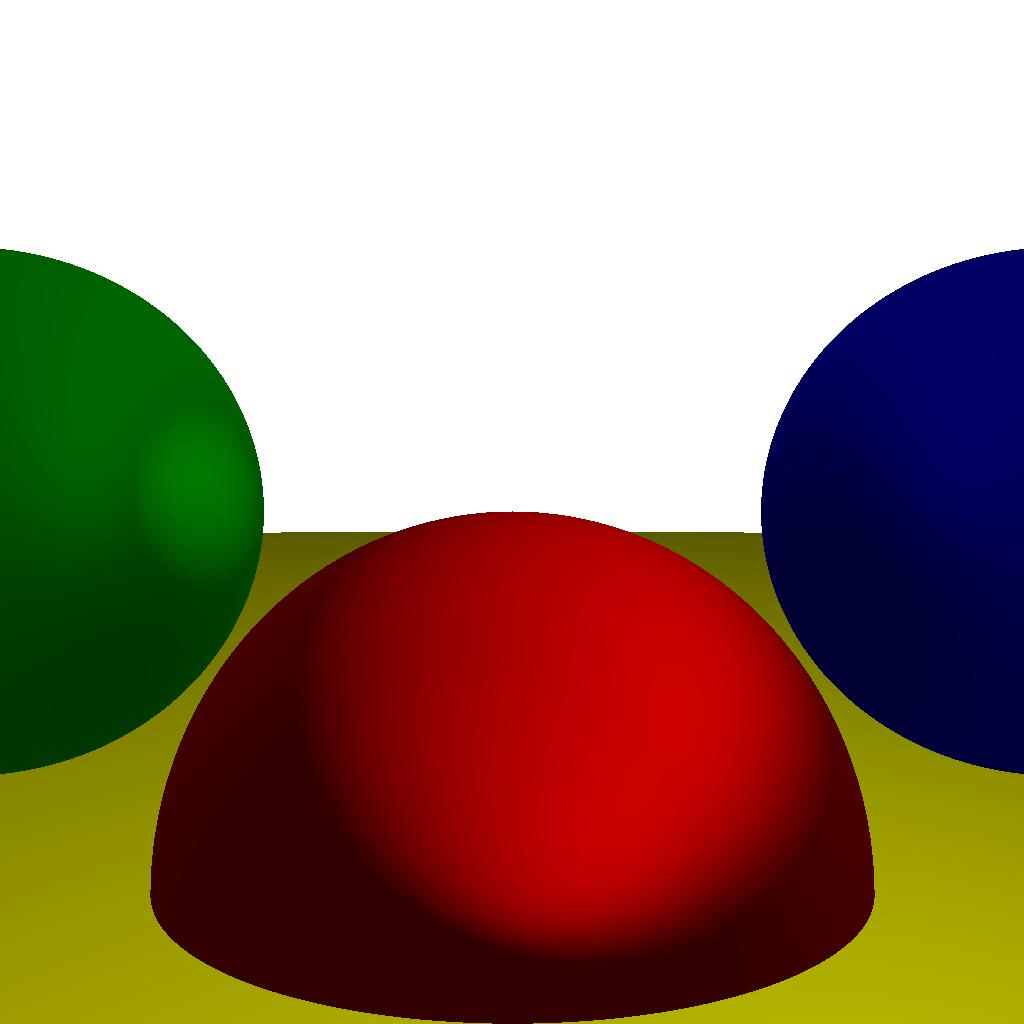
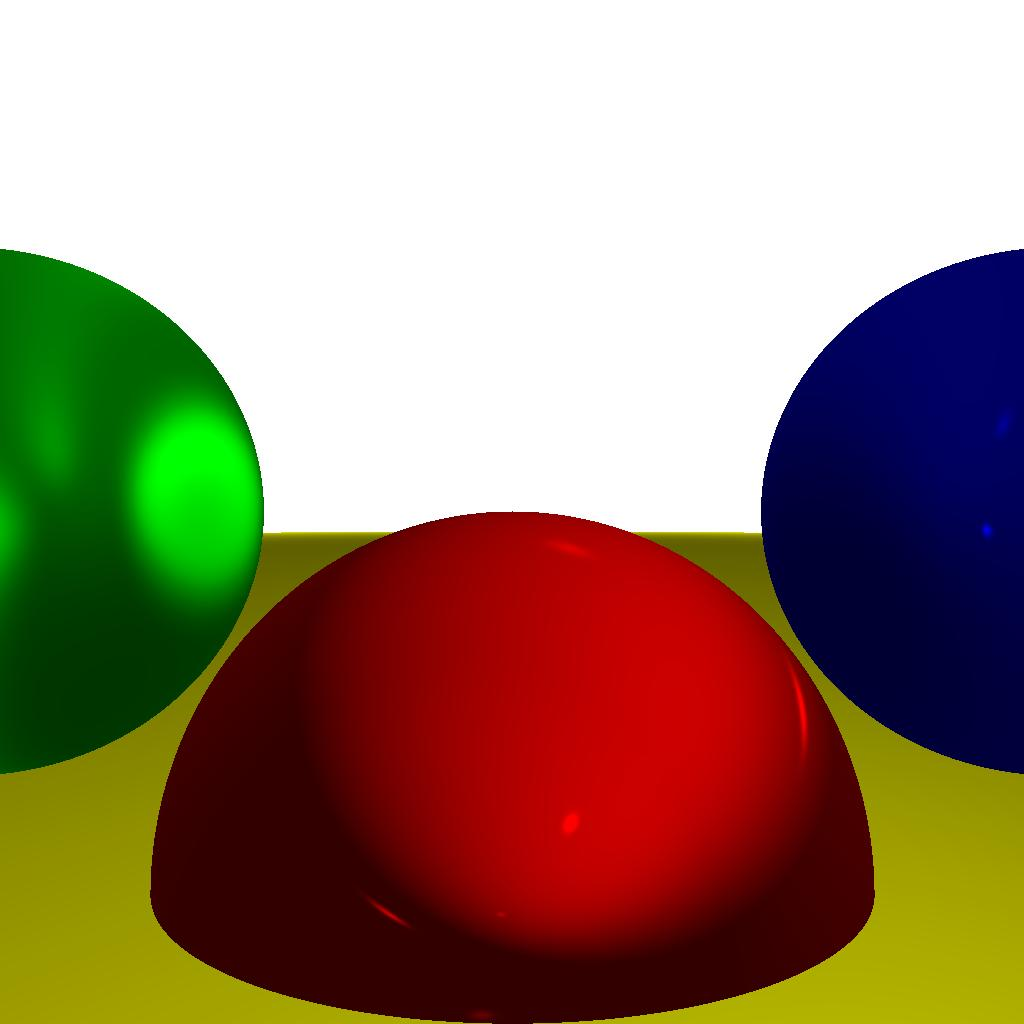
Create specular rendering script

diff --git a/ray/2-specular.py b/ray/2-specular.py
@@ -1,0 +1,108 @@
+"""
+This file has the lighting for diffusion implementation
+"""
+from canvas import canvas
+import numpy as np
+
+class light_object:
+  def __init__(self, **kwargs):
+    self.type = kwargs["type"]
+    self.intensity = kwargs["intensity"]
+    if self.type == "point":
+      self.position = np.array(kwargs["position"])
+    if self.type == "directional":
+      self.direction = np.array(kwargs["direction"])
+  
+  def calc_intensity(self, P, N, V, s):
+    out = 0
+    if self.type == "ambient":
+      out = self.intensity
+      return out
+    if self.type == "point":
+      L = self.position - P
+    if self.type == "directional":
+      L = self.direction
+    #diffuse
+    out = np.dot(N, L) 
+    out = max(0, out)
+    out /= (np.linalg.norm(L))
+    out *= self.intensity
+    #specular
+    R = 2 * np.dot(N, L) * N - L
+    spec = (np.dot(R, V) / (np.linalg.norm(R) * np.linalg.norm(V))) ** s
+    spec = max(0, spec)
+    out += spec * self.intensity
+    return out
+
+lights = []
+lights.append(light_object(type="ambient", intensity=0.2))
+lights.append(light_object(type="point", intensity=0.6, position=[2, 1, 0]))
+lights.append(light_object(type="directional", intensity=0.2, direction=[1, 4, 4]))
+
+class sphere_object:
+  def __init__(self, color, R, C, specular):
+    self.color = np.array(color)
+    self.R = R
+    self.C = np.array(C)
+    self.specular = specular
+
+
+O = np.array([0,0,0])
+spheres = []
+spheres.append(sphere_object([255, 0, 0], 1, [0, -1, 3], 500))
+spheres.append(sphere_object([0, 0, 255], 1, [2, 0, 4], 500))
+spheres.append(sphere_object([0, 255, 0], 1, [-2, 0, 4], 10))
+spheres.append(sphere_object([255, 255, 0], 5000, [0, -5001, 0], 1000))
+
+def compute_lighting(P, N, V, s):
+  intensity = 0
+  for light in lights:
+    intensity += light.calc_intensity(P, N, V, s)
+  intensity = min(1, intensity)
+  return intensity
+def trace_ray(O, D, tmin, tmax):
+  closest_t = np.inf
+  closest_sphere = None
+  for sphere in spheres:
+    t1, t2 = intersection(O, D, sphere)
+    if tmin < t1 < tmax and t1 < closest_t:
+      closest_t = t1
+      closest_sphere = sphere
+
+    if tmin < t2 < tmax and t2 < closest_t:
+      closest_t = t2
+      closest_sphere = sphere
+  if closest_sphere:
+    P = O + closest_t * D
+    N = P - closest_sphere.C
+    N = N/np.linalg.norm(N)
+    s = closest_sphere.specular
+    return closest_sphere.color * compute_lighting(P, N, -D, s)
+  return np.array([255, 255, 255])
+
+def intersection (O, D, sphere):
+  C = sphere.C
+  R = sphere.R
+  CO = O - C
+  a = np.dot(D, D)
+  b = 2 * np.dot(CO, D)
+  c = np.dot(CO, CO) - R**2
+  determinant = b**2 - 4 * a * c
+  if determinant < 0:
+    return np.array([np.inf, np.inf])
+  t1 = (-b + np.sqrt(determinant)) / 2*a
+  t2 = (-b - np.sqrt(determinant)) / 2*a
+  return np.array ([t1, t2])
+
+width = 1024
+height = 1024
+screen = canvas (width, height)
+
+for x in range(-width//2, width//2):
+  print(x)
+  for y in range(-height//2, height//2):
+    D = screen.canvas_to_viewport(x, y)
+    color = trace_ray(O, D, 1, np.inf)
+    screen.put_pixel(x, y, color)
+screen.show()
+screen.save("2.jpeg")

diff --git a/ray/README.md b/ray/README.md
@@ -4,4 +4,4 @@ This folder contains the raytraced renderings from the book.
 
 ## Example
 
-![Rendering using diffusion](./2.jpeg "Rendering using diffusion")
+![Rendering using specular](./2.jpeg "Rendering using specular")
